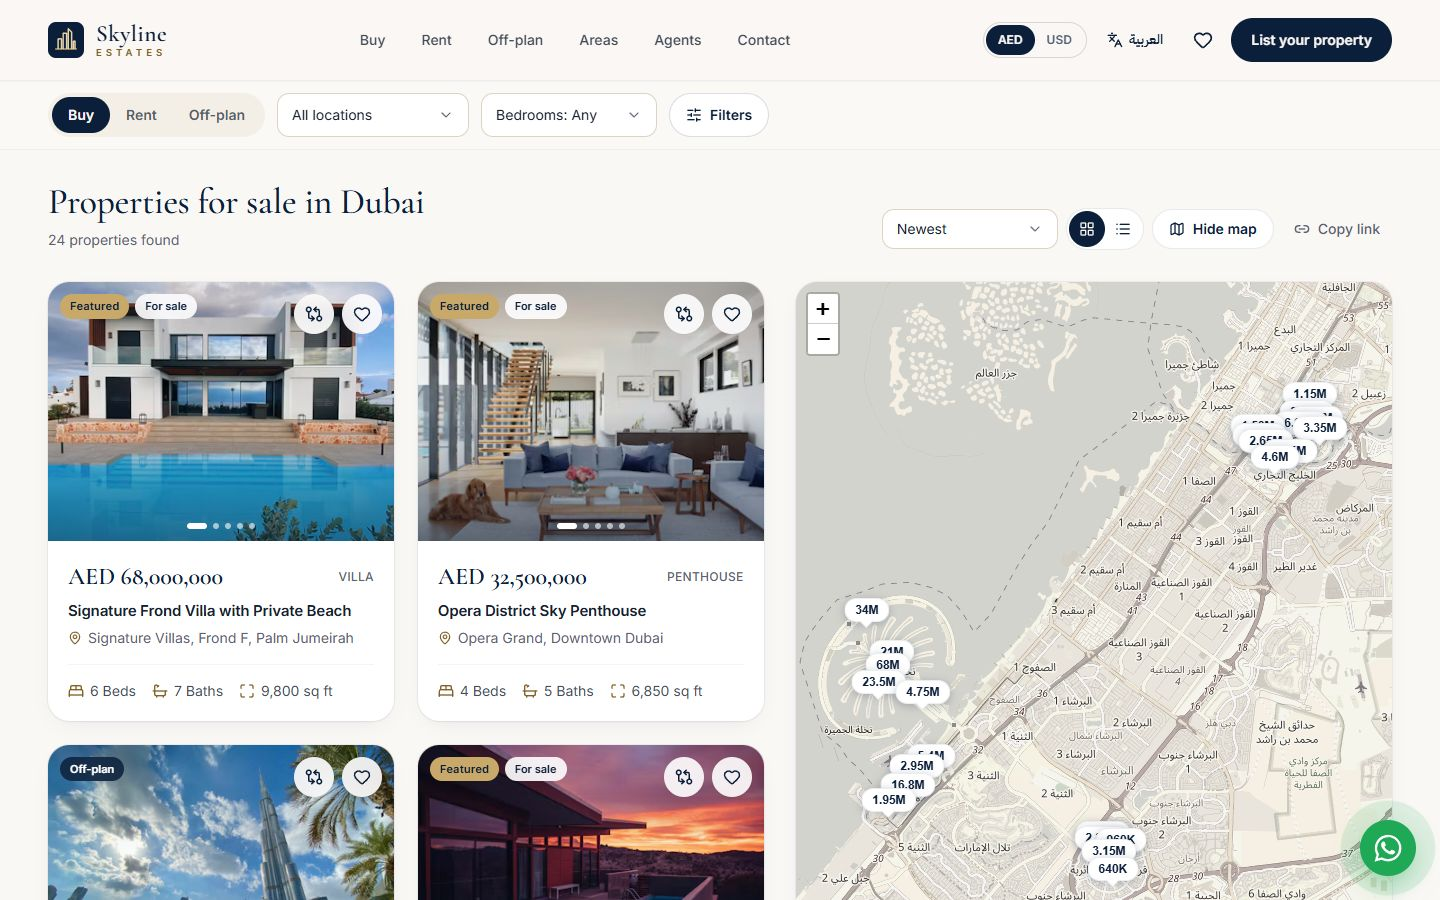
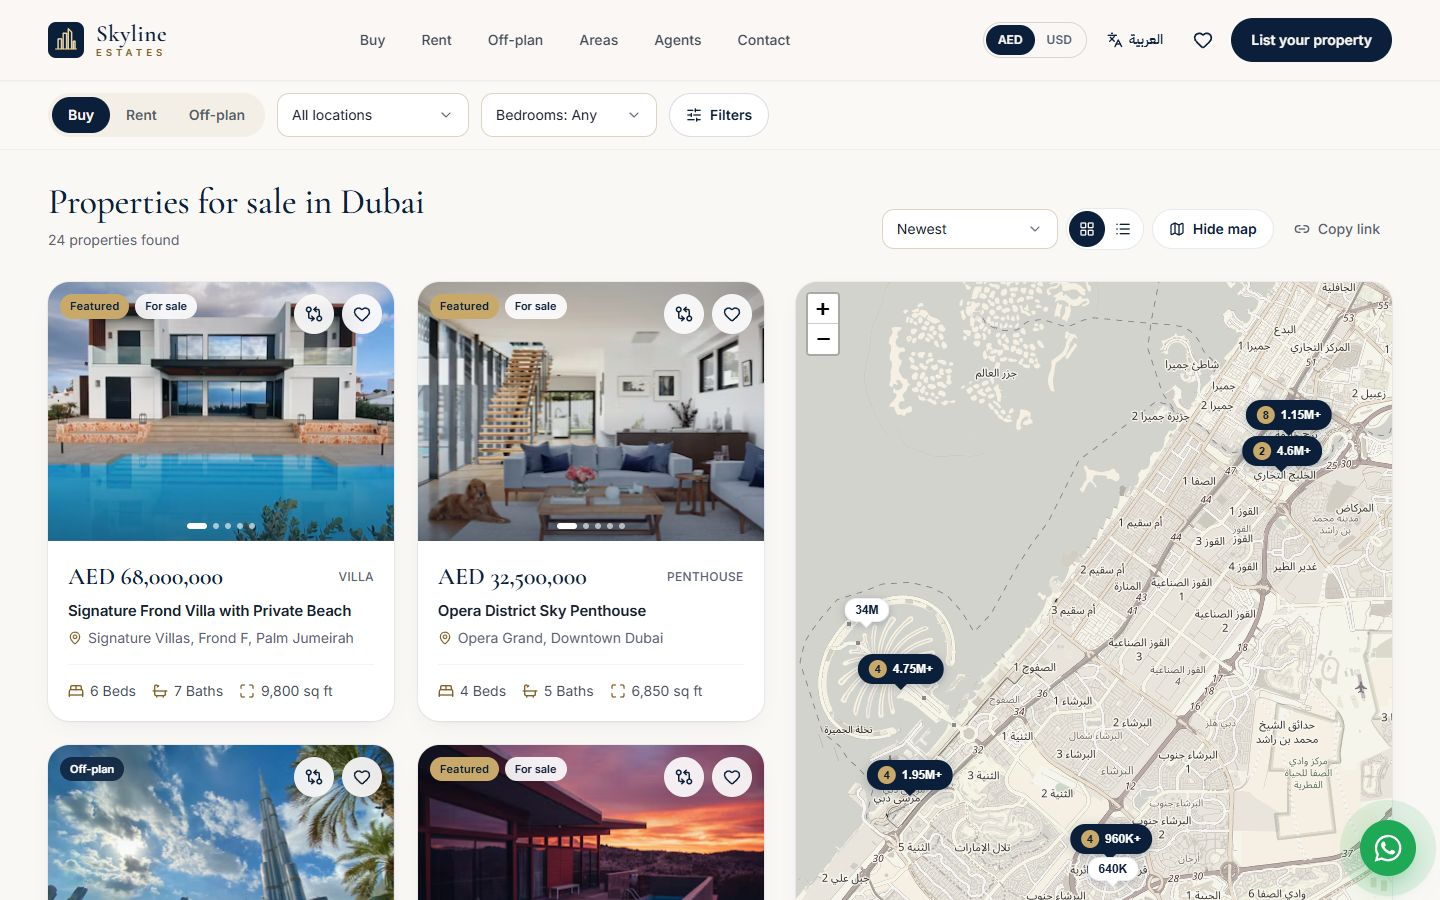
Cluster overlapping price pins on the listings map
Pins that would overlap at the current zoom merge into a count bubble showing the lowest price; clicking it zooms in. The highlighted listing always stays as its own pin.

Changed region(s): [[0.8438, 0.4044, 0.9375, 0.5289], [0.5938, 0.7156, 0.6875, 0.9022], [0.75, 0.9022, 0.8125, 0.9644]]

diff --git a/src/components/map/listings-map.tsx b/src/components/map/listings-map.tsx
@@ -1,10 +1,10 @@
 "use client";
 
 import "leaflet/dist/leaflet.css";
-import { useEffect, useMemo } from "react";
+import { useEffect, useMemo, useState } from "react";
 import Image from "next/image";
 import L from "leaflet";
-import { MapContainer, Marker, Popup, TileLayer, useMap } from "react-leaflet";
+import { MapContainer, Marker, Popup, TileLayer, useMap, useMapEvents } from "react-leaflet";
 import { useLocale, useTranslations } from "next-intl";
 import { Link } from "@/i18n/navigation";
 import { formatPrice, formatPriceShort, type Currency } from "@/lib/format";
@@ -20,6 +20,10 @@ interface ListingsMapProps {
 }
 
 const DUBAI_CENTER: L.LatLngExpression = [25.13, 55.2];
+// Price pins are ~64x26px pills, so pins closer than this would overlap.
+const CLUSTER_DX = 68;
+const CLUSTER_DY = 30;
+const CLUSTER_MAX_ZOOM = 16;
 
 function priceIcon(label: string, active: boolean) {
   return L.divIcon({
@@ -106,6 +110,76 @@ function PriceMarker({
   );
 }
 
+function groupOverlapping(map: L.Map, zoom: number, properties: PropertySummary[], activeId: string | null) {
+  if (zoom >= CLUSTER_MAX_ZOOM) return properties.map((p) => [p]);
+  const groups: { members: PropertySummary[]; x: number; y: number; locked: boolean }[] = [];
+  for (const p of properties) {
+    const { x, y } = map.project(p.coordinates, zoom);
+    const isActive = p.id === activeId;
+    const group = isActive
+      ? undefined
+      : groups.find((g) => !g.locked && Math.abs(g.x - x) < CLUSTER_DX && Math.abs(g.y - y) < CLUSTER_DY);
+    if (group) group.members.push(p);
+    else groups.push({ members: [p], x, y, locked: isActive });
+  }
+  return groups.map((g) => g.members);
+}
+
+function ClusterMarker({ members, currency }: { members: PropertySummary[]; currency: Currency }) {
+  const map = useMap();
+  const t = useTranslations("listings");
+  const bounds = useMemo(() => L.latLngBounds(members.map((p) => p.coordinates)), [members]);
+  const minPrice = formatPriceShort(Math.min(...members.map((p) => p.price)), currency);
+  const icon = useMemo(
+    () =>
+      L.divIcon({
+        className: "price-pin price-pin--cluster",
+        html: `<span class="price-pin__label"><span class="price-pin__count">${members.length}</span>${minPrice}+</span>`,
+        iconSize: [0, 0],
+        iconAnchor: [0, 0],
+      }),
+    [members.length, minPrice],
+  );
+
+  return (
+    <Marker
+      position={bounds.getCenter()}
+      icon={icon}
+      keyboard
+      title={t("clusterTitle", { count: members.length, price: minPrice })}
+      eventHandlers={{
+        click: () => map.flyToBounds(bounds, { padding: [72, 72], maxZoom: CLUSTER_MAX_ZOOM, duration: 0.5 }),
+      }}
+    />
+  );
+}
+
+function ClusteredMarkers({
+  properties,
+  currency,
+  activeId,
+  onSelect,
+}: Pick<ListingsMapProps, "properties" | "currency" | "activeId" | "onSelect">) {
+  const map = useMap();
+  const [zoom, setZoom] = useState(() => map.getZoom());
+  useMapEvents({ zoomend: () => setZoom(map.getZoom()) });
+  const groups = useMemo(() => groupOverlapping(map, zoom, properties, activeId), [map, zoom, properties, activeId]);
+
+  return groups.map((members) =>
+    members.length === 1 ? (
+      <PriceMarker
+        key={members[0].id}
+        property={members[0]}
+        currency={currency}
+        active={members[0].id === activeId}
+        onSelect={onSelect}
+      />
+    ) : (
+      <ClusterMarker key={members.map((p) => p.id).join("-")} members={members} currency={currency} />
+    ),
+  );
+}
+
 export default function ListingsMap({ properties, currency, activeId, onSelect, className }: ListingsMapProps) {
   const t = useTranslations("listings");
   return (
@@ -114,9 +188,7 @@ export default function ListingsMap({ properties, currency, activeId, onSelect, 
         <TileLayer url={TILE_URL} attribution={TILE_ATTRIBUTION} maxZoom={TILE_MAX_ZOOM} />
         <FitBounds properties={properties} />
         <InvalidateOnResize />
-        {properties.map((p) => (
-          <PriceMarker key={p.id} property={p} currency={currency} active={p.id === activeId} onSelect={onSelect} />
-        ))}
+        <ClusteredMarkers properties={properties} currency={currency} activeId={activeId} onSelect={onSelect} />
       </MapContainer>
     </div>
   );

diff --git a/src/app/globals.css b/src/app/globals.css
@@ -273,6 +273,27 @@
   color: var(--color-gold-light);
   transform: translate(-50%, -100%) scale(1.12);
 }
+.price-pin--cluster .price-pin__label {
+  gap: 6px;
+  background: var(--color-navy);
+  color: #ffffff;
+  cursor: pointer;
+}
+.price-pin--cluster .price-pin__count {
+  display: grid;
+  place-items: center;
+  min-width: 18px;
+  height: 18px;
+  padding: 0 5px;
+  border-radius: 999px;
+  background: var(--color-gold);
+  color: var(--color-navy);
+  font-size: 11px;
+}
+.price-pin--cluster:hover .price-pin__label,
+.price-pin--cluster:focus-visible .price-pin__label {
+  transform: translate(-50%, -100%) scale(1.08);
+}
 .place-pin,
 .home-pin {
   background: transparent;
